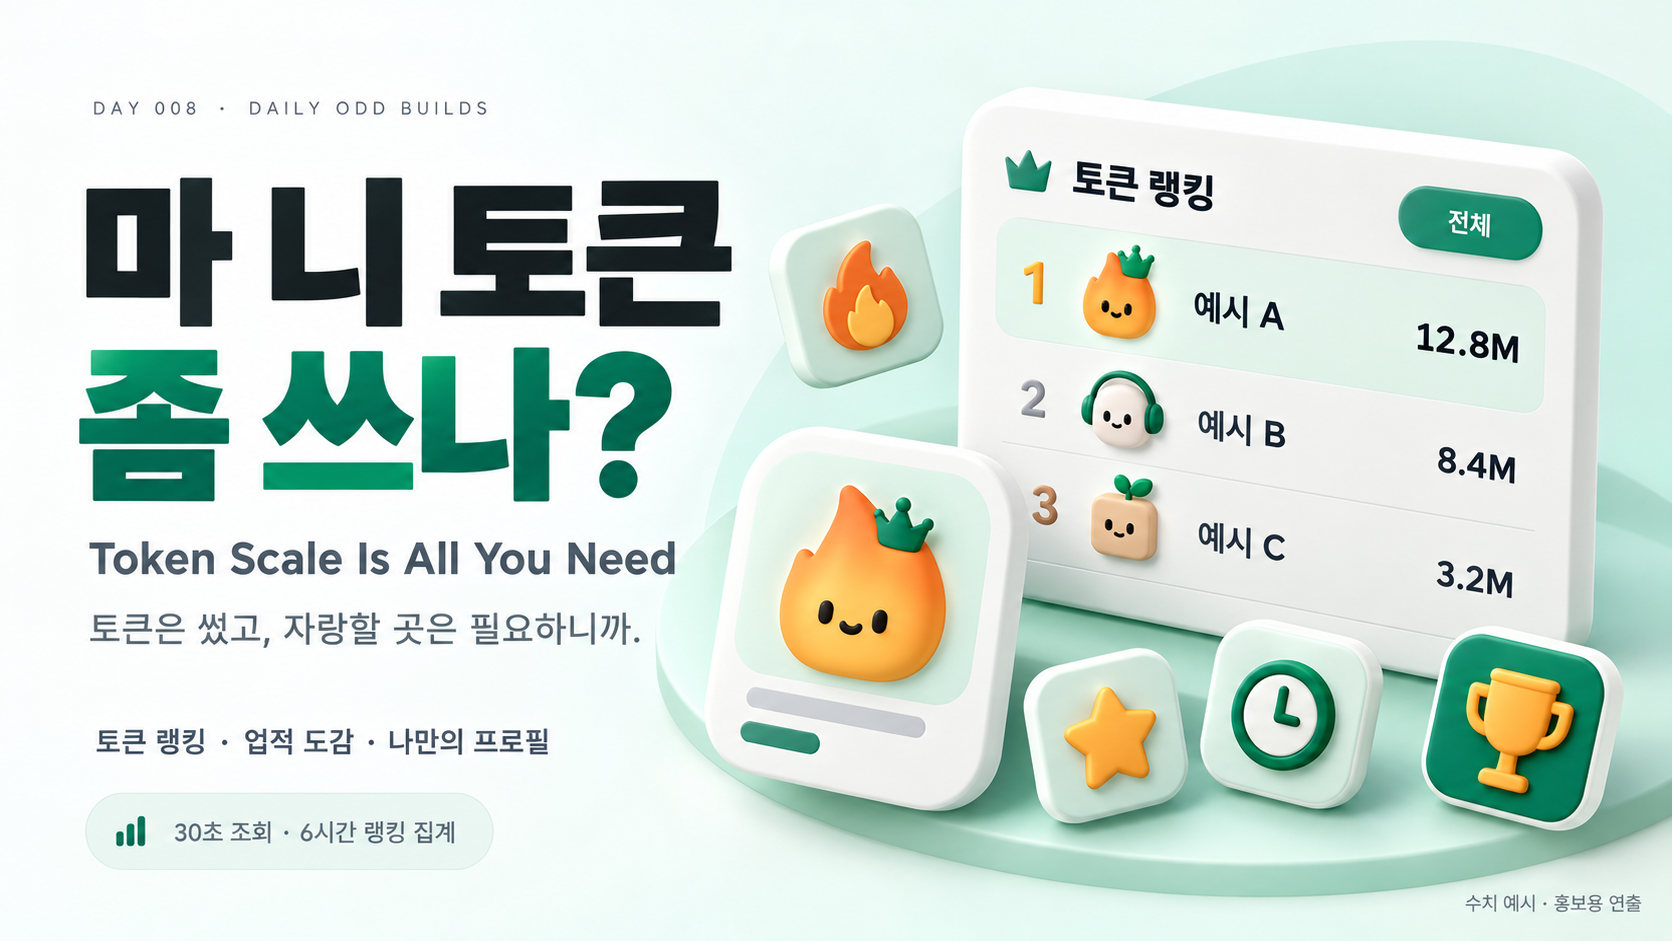
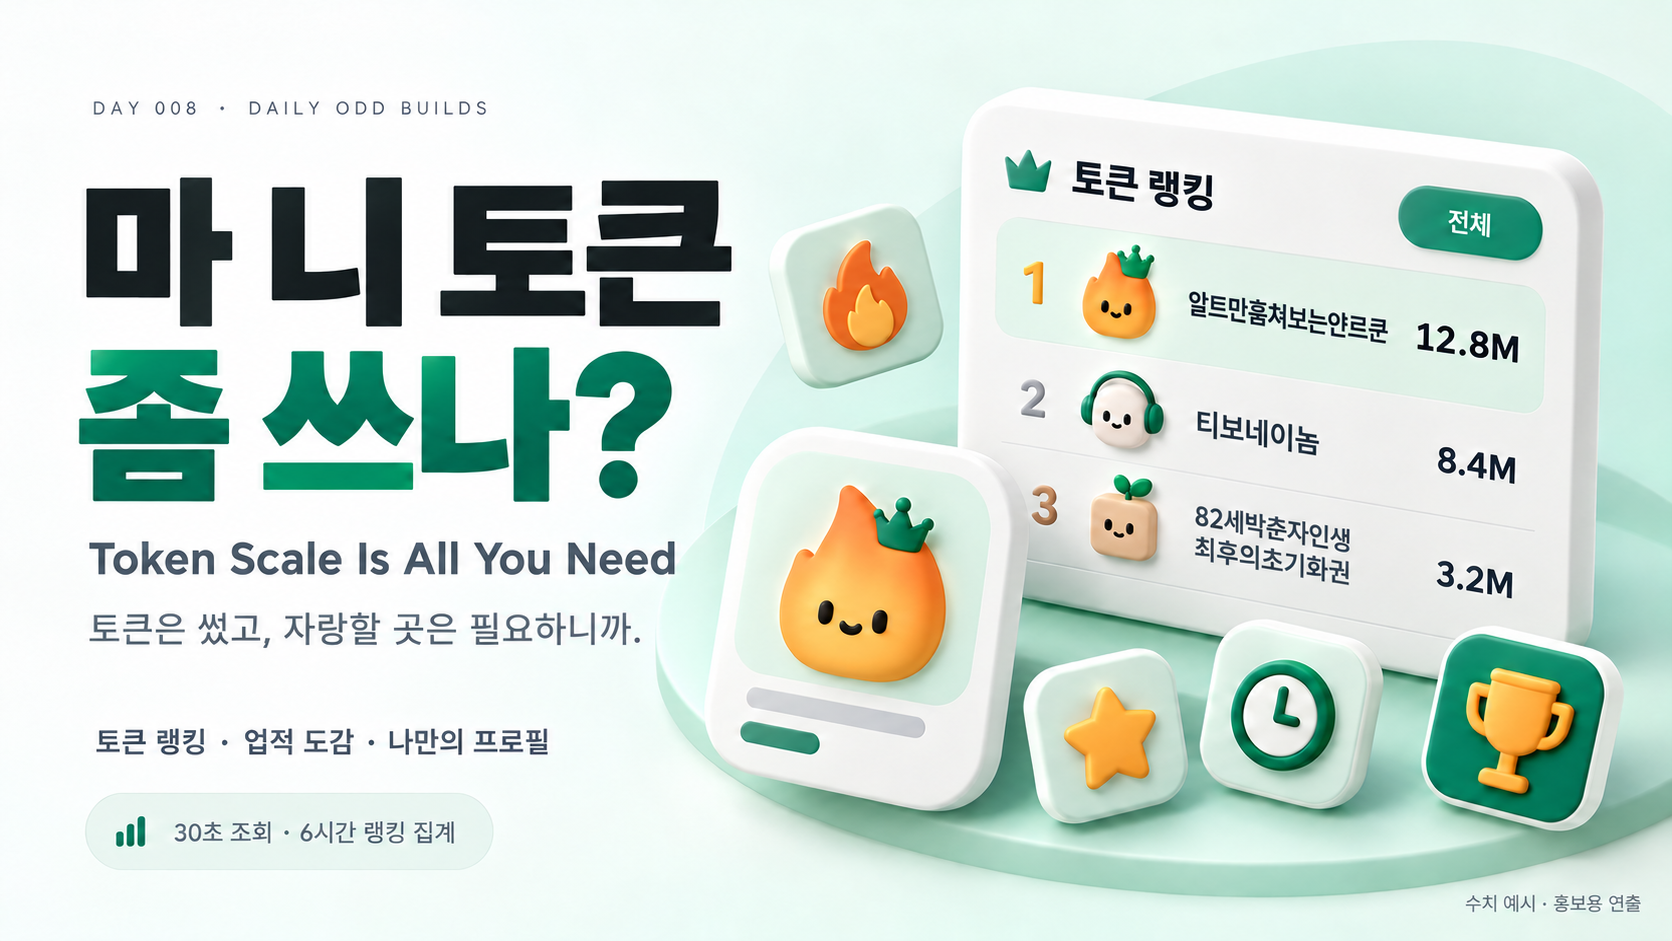
Release Day 008 Token Scale 0.4.0 with launch artwork and downloads

diff --git a/day-008-token-scale/docs/ARTWORK.md b/day-008-token-scale/docs/ARTWORK.md
@@ -34,7 +34,7 @@
 | 작은 상태 라벨 | `30초 조회 · 6시간 랭킹 집계` |
 | 우하단 필수 주석 | `수치 예시 · 홍보용 연출` |
 
-랭킹 카드의 숫자는 `12.8M`, `8.4M`, `3.2M`, 닉네임은 `예시 A`, `예시 B`, `예시 C`를 사용합니다. 개인 기록을 대체하지 않는 가상 조합입니다. 카드 안의 세부 UI 문구는 최소화합니다.
+랭킹 카드의 숫자는 `12.8M`, `8.4M`, `3.2M`, 최종 닉네임은 `알트만훔쳐보는얀르쿤`, `티보네이놈`, `82세박춘자인생최후의초기화권`을 사용합니다. 개인 기록을 대체하지 않는 가상 조합입니다. 카드 안의 세부 UI 문구는 최소화합니다.
 
 343개 전체를 달성 가능한 업적처럼 강조하지 않습니다. 이미지에서는 업적 개수 대신 실제 기능인 **업적 도감**을 사용합니다. `실시간 순위`, `공식 인증`, `생산성 순위`, `부정행위 방지 보장` 같은 문구도 사용하지 않습니다.
 
@@ -46,6 +46,39 @@
 
 생성 후 원본 PNG를 보존합니다. 크기 변경·형식 변환·텍스트 수정이 있었다면 실제 수행한 방식과 결과를 [README-MEDIA.md](README-MEDIA.md)에 기록합니다. 새 문구나 UI 수정은 내장 imagegen으로 작업하며, 생성 결과를 실제 제품 캡처로 표시하지 않습니다.
 
-## 선택 사항: 정사각 소개 카드
+## 추가 홍보·기능 이미지
 
-Hero 완성 후에만 같은 디자인을 1:1로 확장합니다. 상단에 주 제목, 중앙에 랭킹 카드와 아바타, 하단에 `토큰 랭킹 · 업적 도감 · 나만의 프로필`과 예시 주석을 놓습니다. 핵심 내용은 Hero 한 장으로 전달되므로 정사각 카드는 필수 납품물이 아닙니다.
+사용자의 추가 요청에 따라 정사각 카드와 기능 소개 세 장을 제작했습니다. GPT-6 Astra / High 서브에이전트가 문안·프롬프트·검수를 담당하고, 비트맵은 내장 imagegen으로 각각 생성했습니다. 비트맵 도구에서 별도의 생성 모델을 지정하지 않았습니다. 원본 Hero를 직접 보고 네 번의 호출 모두 참고 이미지로 전달했으며, Hero 파일 자체는 변경하지 않았습니다.
+
+| 자산 | 큰 제목 / 핵심 표현 | 정확한 생성 프롬프트 |
+| --- | --- | --- |
+| `social-card` | `마 니 토큰 / 좀 쓰나?` · 큰 제목과 랭킹·아바타를 정사각형으로 재구성 | [social-card.txt](prompts/social-card.txt) |
+| `feature-rankings` | `숫자는 같이, / 순위는 여섯 시간마다.` · 기간 전환, 공개 상위 50명과 별도 본인 순위, UTC 집계 시각 | [feature-rankings.txt](prompts/feature-rankings.txt) |
+| `feature-achievements` | `쓴 만큼, / 도감도 채워집니다.` · 343개 규칙, 지원 226개/대기 117개, 검색·필터와 진행 예시 | [feature-achievements.txt](prompts/feature-achievements.txt) |
+| `feature-profile` | `닉네임 하나, / 내 취향은 잔뜩.` · 아바타·색·소개·직접 입력 GitHub 링크와 공개 선택 | [feature-profile.txt](prompts/feature-profile.txt) |
+
+추가 네 장 모두 **예시 데이터 · 홍보용 연출**을 이미지 안에 표시합니다. 기능 카드의 배치·입체감·아이콘·색상 선택 UI는 실제 제품을 설명하기 위한 연출입니다. 실제 Flutter 렌더러 캡처가 아니며, 기능 동작이나 저장 성공을 입증하지 않습니다.
+
+업적 이미지의 226개는 해당 예시 사용자의 달성 수가 아닌 **판정기 지원 규칙 수**입니다. 진행 카드의 `6M / 10M`, `60%`와 랭킹 이미지의 `128위`, `1.2M`은 가상 예시입니다. 프로필의 `계정 소유권 미확인` 문구는 GitHub 직접 입력 링크의 한계를 설명합니다. `비공개` 선택은 설정 예시이며 실제 계정 설정을 촬영한 것이 아닙니다.
+
+정사각 카드에서 Hero의 작은 트로피가 유지되는 것은 장식입니다. 순위 우승 업적이 구현됐다는 표시로 해석하지 않습니다. 업적 기능 이미지는 개별 우승 업적을 제시하지 않습니다. 다른 게임이나 제품의 자산을 가져오지 않았습니다.
+
+추가 PNG는 생성 도구가 반환한 원본을 그대로 복사했습니다. WebP는 Pillow의 lossless 형식 변환만 수행하며, 파일별 크기·SHA-256·RGBA 비교 결과는 [README-MEDIA.md](README-MEDIA.md)에 기록합니다.
+
+### 가상 닉네임 편집
+
+사용자가 예시 A/B/C 대신 장난스러운 닉네임을 요청해 정사각 카드·랭킹·프로필을 내장 imagegen으로 각각 편집했습니다. 최종 이름은 `알트만훔쳐보는얀르쿤`, `티보네이놈`, `82세박춘자인생최후의초기화권`이며 본인 순위는 `토큰은내가지갑은네가`입니다. 실제 이용자나 이름에 언급된 인물의 참여를 뜻하지 않는 가상 닉네임입니다. 토큰 수치와 프로필 내용도 예시입니다.
+
+편집 전 이미지를 로컬 작업 보관 폴더에 남겼습니다. 구성·색·기능 설명·수치·예시 주석을 유지하도록 요청하고 결과를 직접 확인했습니다. 긴 닉네임은 두 줄 또는 작은 글자로 배치했습니다. 생성 편집이므로 닉네임 영역 밖의 픽셀까지 원본과 동일하다고 주장하지 않습니다.
+
+실제 편집 프롬프트: [정사각 카드](prompts/social-card-nicknames.txt) · [랭킹](prompts/feature-rankings-nicknames.txt) · [프로필](prompts/feature-profile-nicknames.txt). 업적 이미지에는 닉네임이 없어 이번 편집을 적용하지 않았습니다. Hero의 별도 편집 기록은 해당 제작 담당자가 관리합니다.
+
+## 브랜드 앱 아이콘
+
+사용자의 favicon·설치 앱·스플래시 브랜딩 요청으로 **`docs/images/brand-icon.png`**를 추가 제작했습니다. Hero와 정사각 카드를 직접 보고 내장 imagegen의 참고 이미지로 전달했습니다. 정확한 프롬프트는 [brand-icon.txt](prompts/brand-icon.txt)입니다.
+
+오렌지 불꽃·초록 왕관·검정 눈과 미소를 단순화하고, 연한 민트색 배경이 정사각형 전체를 채우도록 했습니다. 텍스트·테두리·장치 목업·내부 라운드 사각 프레임을 넣지 않았습니다. 둥근 모서리는 운영체제의 아이콘 마스크에 맡깁니다.
+
+원본은 1254×1254 PNG이며 전 픽셀의 알파가 255입니다. 색상 주체를 채도 기준으로 추린 근사 검사에서 중심으로부터 최대 반경은 캔버스 폭의 약 0.371로, 반경 0.4의 중앙 안전원 안에 들어갑니다. 이는 이미지의 여백 검사이며 실제 PWA 설치나 모든 OS 마스크·16px 가독성 검증을 대신하지 않습니다.
+
+아이콘 원본 생성과 favicon/manifest/스플래시 적용은 별도 작업입니다. 파생 아이콘 크기·ICO 생성·웹 배포·실제 브라우저 확인은 웹 반영 담당자의 검증 기록을 따릅니다. 이 아트 작업에서는 웹 코드를 변경하지 않았습니다.

diff --git a/day-008-token-scale/docs/release-0.4.0.md b/day-008-token-scale/docs/release-0.4.0.md
@@ -1,0 +1,47 @@
+# Day 008 · 마 니 토큰 좀 쓰나? · 0.4.0
+
+Token Scale Is All You Need를 Day 008로 공개합니다.
+
+[웹에서 보기](https://token-arena-hssum9409.web.app/) ·
+[Windows / macOS 다운로드](https://token-arena-hssum9409.web.app/download/) ·
+[소개·기능 이미지·공개 소스](https://github.com/hssum9409/daily_odd_builds-public/tree/main/day-008-token-scale)
+
+## 달라진 점
+
+- 백그라운드 수집기가 토큰 통계를 30초마다 확인합니다. 값이 같으면 전송하지 않고,
+  달라진 값·날짜는 최신 절대값으로 보냅니다. 과거 날짜의 하향 정정도 처리합니다.
+- 추가 메타데이터는 시작 및 시간별로 확인해 로컬 캐시와 비교하고 변경분만 보냅니다.
+  최초 웹 연결은 정기 수집 시각과 관계없이 즉시 동기화합니다.
+- 빠른 변경분은 RTDB, 시간별 이력과 업적은 Firestore로 나눠 처리합니다.
+  공개 랭킹은 기존 UTC 00/06/12/18시 서버 일괄 집계를 유지합니다.
+- 4개 언어의 다운로드·데이터 처리 안내와 Day 008 소개·홍보 이미지를 갱신했습니다.
+
+## 설치와 업데이트
+
+ZIP/tar.gz 전체를 풀고 Windows는 `Install.vbs`, Mac은 `Install Token Scale.app`을 엽니다.
+Codex의 기존 ChatGPT 로그인과 별도의 Google 웹 연결이 필요합니다.
+일반 측정 창이나 터미널을 계속 열어둘 필요 없이 트레이/메뉴 막대에서 실행합니다.
+
+현재 설치본 3개, 네이티브 업데이트 파일 3개와 `SHA256SUMS.txt`를 제공합니다.
+기존 설치본은 정식 업데이트를 확인할 수 있습니다. 설치 관리자/호스트/런타임까지
+갱신하려면 새 전체 설치본을 실행합니다. 기존 자동 업데이트 호환을 위해 태그는
+`day004-cli-v0.4.0`을 유지하며 현재 공개 번호와 표시명은 **Day 008**입니다.
+
+## 확인한 범위
+
+Windows 실제 설치 엔진·웹 연결·Codex 원본 조회·운영 RTDB 저장·시간별 Firestore 반영을
+확인했습니다. 응답 유실·재시도·과거 정정은 Windows 데몬과 합성 원본/Firebase Emulator로
+검증했습니다. 공개용 별도 workspace의 분석과 64개 테스트를 통과했습니다.
+
+[macOS 네이티브 CI](https://github.com/hssum9409/daily_odd_builds-public/actions/runs/39685452130)의
+Intel·Apple Silicon 빌드·버전 실행과 각 16개 패키지 검사도 통과했습니다.
+**macOS 14+ 실기기 미검증 preview**이며 Finder·Keychain·Gatekeeper·메뉴·로그인 시작은
+물리 Mac 검증 전입니다. Windows 재부팅·SmartScreen도 이번 검증 범위에 포함하지 않습니다.
+정식 Authenticode/Developer ID·Apple 공증을 제공하지 않습니다.
+
+통계는 `community_reported`이며 생산성·실력·원본 진위를 인증하지 않습니다.
+OpenAI 인증정보·대화·프롬프트·코드·프로젝트 경로는 전송하지 않습니다.
+이미지는 가상 수치와 아바타를 사용한 홍보용 연출입니다.
+
+[자세한 검증 기록](verification-0.4.0.md) ·
+[개인정보·인증 구조](https://token-arena-hssum9409.web.app/about/?lang=ko)

diff --git a/day-008-token-scale/README.md b/day-008-token-scale/README.md
@@ -26,6 +26,13 @@
 
 Day 008 of [Daily Odd Builds](https://daily-odd-builds-portal.web.app/). **OpenAI가 제작·승인한 공식 서비스가 아니며, 토큰 소비량은 생산성이나 실력의 지표가 아닙니다.**
 
+<details>
+<summary>정사각 소개 카드 보기</summary>
+
+<img src="docs/images/social-card.webp" width="640" alt="Day 008 정사각 홍보 카드. 가상 랭킹과 아바타를 사용한 설명용 연출">
+
+</details>
+
 ## 시작하기
 
 1. 컴퓨터의 **Codex에 ChatGPT 계정으로 로그인**합니다.
@@ -52,13 +59,23 @@ Day 008 of [Daily Odd Builds](https://daily-odd-builds-portal.web.app/). **OpenA
 | 백그라운드 수집 | 트레이/메뉴 막대에서 동기화, 일시정지, 자동 시작, 업데이트 |
 | 네 가지 언어 | 한국어 · English · 日本語 · 简体中文 |
 
+### 쓴 만큼, 도감도 채워집니다
+
+![343개 업적 규칙 중 판정 지원 226개와 데이터 대기 117개, 검색·필터·진행 예시를 설명하는 홍보 연출](docs/images/feature-achievements.webp)
+
 **업적 도감에는 343개 규칙이 있습니다.** 현재 판정기가 지원하는 규칙은 226개, 필요한 지표를 아직 받지 못하는 규칙은 117개입니다. 지원되는 규칙도 계정에서 원본 값을 받지 못하면 데이터 대기로 남습니다.
 
 1M부터 1T까지의 토큰 단계, 최장 단일 턴, 관측된 연속 사용과 매일 일정량 사용하기 등을 살펴볼 수 있습니다. 내 공개 프로필에는 대표 배지를 최대 다섯 개 보여줍니다. 과거 통계가 정정되면 업적 상태도 바뀔 수 있습니다.
 
+### 닉네임 하나, 내 취향은 잔뜩
+
+![조합형 아바타와 색상, 짧은 소개, 직접 입력하는 GitHub 링크와 공개 선택을 설명하는 홍보 연출](docs/images/feature-profile.webp)
+
 아바타는 모양·눈·입·장식을 조합하고 세 가지 색을 고릅니다. 색을 빼도 192가지 조합입니다. 소개는 최대 100 UTF-16 단위이며, 일부 이모지는 두 단위로 셉니다. **GitHub는 직접 입력하는 프로필 링크로, OAuth 연결이나 계정 소유권 인증이 아닙니다.**
 
 ## 내 숫자는 자주, 랭킹은 여섯 시간마다
+
+![일간·주간·월간·전체 전환, 공개 상위 50명과 별도 본인 순위, 6시간 서버 집계를 설명하는 가상 랭킹 홍보 이미지](docs/images/feature-rankings.webp)
 
 0.4.0 수집기는 **30초 간격으로 로컬 통계를 조회**합니다. 최초 웹 연결 직후에도 한 번 읽습니다. 마지막 저장 성공값과 비교해 달라진 값과 날짜만 보내며, 그대로라면 전송하지 않습니다.
 

diff --git a/day-008-token-scale/docs/verification-0.4.0.md b/day-008-token-scale/docs/verification-0.4.0.md
@@ -1,9 +1,10 @@
 # 0.4.0 변경분 수집 검증 · 2026-10-22 KST
 
 구현 계약: [stream-sync.md](stream-sync.md). 브랜치 `day_004_token_arena`.
-운영 API/RTDB Rules/시간별 집계/웹은 배포했다. 공개 다운로드와 GitHub 자동 업데이트
-릴리스는 아직 0.3.1이다. 새 Windows ZIP은 로컬에서 빌드·실행했으며 새 Mac 릴리스를
-빌드하거나 실기기에서 검증한 것으로 표시하지 않는다.
+운영 API/RTDB Rules/시간별 집계/웹은 배포했다. Windows ZIP은 로컬에서 빌드·실행했고,
+0.4.0 Mac Intel·Apple Silicon은 각각 실제 macOS CI에서 빌드·검증했다.
+공개 번호는 사용자 지시에 따라 Day 008이다. 기존 업데이트 호환 채널은
+`day004-cli-v`를 유지한다. macOS 실기기 검증은 수행하지 않았다.
 
 ## 실제 Windows / Google / Codex / Firebase
 
@@ -60,6 +61,13 @@
 | 패키지 매니페스트/합성 RPC 생성 회귀 | 3 통과 |
 | Flutter Web release | 성공. 기존 CupertinoIcons 미사용 폰트 경고 있음 |
 | Windows 0.4.0 AOT/ZIP | 빌드 및 실제 설치 엔진 실행 성공 |
+| 공개용 collector/core 스냅샷 | 별도 workspace 분석 문제 없음, 64개 테스트 통과 |
+| macOS 0.4.0 x64 / arm64 | 각 네이티브 CI의 분석·64 테스트·JXA fixture·3 패키징 테스트·빌드·16 패키지 검사·버전 실행·POSIX 분리 시험 통과 |
+
+네이티브 macOS CI: https://github.com/hssum9409/daily_odd_builds-public/actions/runs/39685452130.
+CI 소스 커밋은 `e7e68d82ec07471c24e99446fff2de1f7e7efa79`이다.
+POSIX 분리 시험은 통제된 셸 자식으로 수행했으며 Finder·실제 Keychain·메뉴 막대·
+Gatekeeper·로그인 시작의 물리 Mac 검증을 대신하지 않는다.
 
 재현 도구의 최종 재실행도 통과했다. 간격은 30.42초 / 32.15초, 응답 유실 후 재시도는
 61.14초였으며 동일 본문/순번, 전송 생략, 메타데이터만의 변경 및 Firestore 정정을 재확인했다.

diff --git a/README.md b/README.md
@@ -51,13 +51,15 @@ Chrome Extension Manifest V3 · PC 일반·마이너·미니 갤러리 지원 ·
 
 업무·휴식 시간 기록. [웹](https://bbi.hssum.kr/) · [Windows / macOS 다운로드](https://bbi.hssum.kr/download) · [안내·공개 소스](day-005-seongsilbbi/README.md). [릴리스 · 0.6.4](https://github.com/hssum9409/daily_odd_builds-public/releases/tag/day005-v0.6.5). Windows/Web beta, macOS preview.
 
-<!-- day004-token-scale:start -->
-## Day 004 · Token Scale Is All You Need
+<!-- day008-token-scale:start -->
+## Day 008 · 마 니 토큰 좀 쓰나?
 
-마 니 토큰 좀 쓰나? · 재미를 위한 Codex 토큰 랭킹.
-[다운로드 · 0.3.1 사전 배포](https://token-arena-hssum9409.web.app/download/) · [설치 안내·수집기 소스](day-004-token-scale/README.md) · [릴리스](https://github.com/hssum9409/daily_odd_builds-public/releases/tag/day004-cli-v0.3.1).
-Windows beta / macOS 14+ preview. 공식 서비스 공개는 정책 확인과 대상 기기 검증 후 진행합니다.
-<!-- day004-token-scale:end -->
+토큰은 썼고, 자랑할 곳은 필요하니까. Codex 통계를 닉네임 랭킹·업적 도감·조합형 아바타로 즐기는 커뮤니티입니다.
+
+[웹에서 보기](https://token-arena-hssum9409.web.app/) · [소개와 사용 방법](day-008-token-scale/README.md) · [Windows / macOS 다운로드](https://token-arena-hssum9409.web.app/download/) · [릴리스 · 0.4.0](https://github.com/hssum9409/daily_odd_builds-public/releases/tag/day004-cli-v0.4.0)
+
+30초 로컬 조회·변경분만 전송, 서버 랭킹 6시간 집계. Windows 실제 실행 확인 · macOS 실기기 미검증 preview. 비공식 재미용 community-reported 통계이며 공개 참가는 선택입니다.
+<!-- day008-token-scale:end -->
 
 <!-- day006:start -->
 ## Day 006 — DC 계정 인증 / SSO

diff --git a/day-008-token-scale/docs/policy-and-privacy.md b/day-008-token-scale/docs/policy-and-privacy.md
@@ -54,5 +54,5 @@ OpenAI 인증과 Firebase 인증을 혼동하지 않습니다.
 
 ChatGPT 로그인은 계정 소유권 확인과 클라이언트 통계의 진위 확인을 분리해 검토합니다.
 현재 통계는 로그인 상태와 관계없이 `community_reported`입니다. 새 정식 로그인 제공
-범위와 중복 계정 연결의 개선 가능성은 [로그인 신뢰도 조사](chatgpt-login-trust.md)에
+범위와 중복 계정 연결의 개선 가능성은 [공개 인증 구조 안내](https://token-arena-hssum9409.web.app/about/?lang=ko#authentication)에
 기록했습니다. OpenAI 인증정보를 Firebase에 저장하는 구조는 추가하지 않았습니다.

diff --git a/day-004-token-scale/README.md b/day-004-token-scale/README.md
@@ -1,3 +1,5 @@
+> 현재 프로젝트의 공개 번호는 **Day 008**입니다. [최신 소개·설치·소스 스냅샷](../day-008-token-scale/README.md)을 확인하세요. 아래는 0.3.1의 과거 배포 기록입니다.
+
 # Token Scale Is All You Need · 0.3.1
 
 한국어: 마 니 토큰 좀 쓰나? · 日本語: トークン、それだけ？ｗ · 简体中文: 不是哥们，就烧这么点 Token？ · English: You Call That Token Burn?

diff --git a/day-008-token-scale/docs/stream-sync.md b/day-008-token-scale/docs/stream-sync.md
@@ -1,6 +1,6 @@
 # 0.4.0 변경분 동기화
 
-이 문서는 현재 CLI/서버 계약이다. 공개된 0.3.1 설치본은 기존 6시간 수집을 계속 사용한다.
+이 문서는 0.4.0 CLI/서버 계약이다. 이전 0.3.1 설치본은 업데이트 전까지 기존 6시간 수집을 사용한다.
 0.4.0 배포본 공개/자동 업데이트 배포와 이 코드의 구현·검증을 구분한다.
 
 ## 수집과 저장
